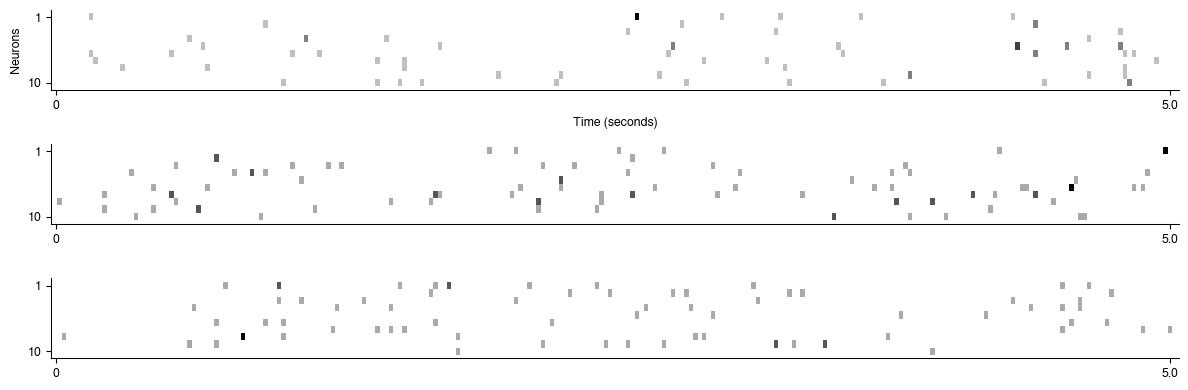
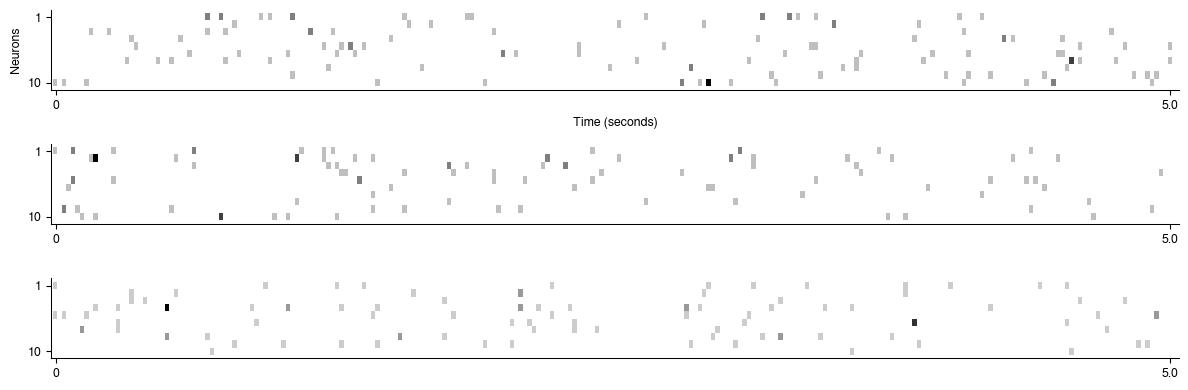
update examples

diff --git a/generate.py b/generate.py
@@ -154,6 +154,8 @@ def test_generate(
     if args.unconditional:
         n_neurons = args.n_neurons
         sample = np.zeros((n_neurons, 1), dtype=np.uint8)
+        indices_to_set = np.random.choice(n_neurons, int(n_neurons * 0.1), replace=False)
+        sample[indices_to_set] = 1
     else:
         ds = load_dataset(ds_name, split=ds_split)
         logger.info(f"Dataset loaded (size: {len(ds)})")
@@ -265,7 +267,7 @@ if __name__ == "__main__":
     parser.add_argument("--ctx_t", type=int, default=1, help="Duration of prompt context (time bins)")
     # unconditional
     parser.add_argument("--unconditional", action="store_true", default=False, help="If set, samples will be generated unconditionally (default: conditional generation).")
-    parser.add_argument("--n_neurons", type=int, default=10, help="Number of neurons. Used only when --unconditional is set.")
+    parser.add_argument("--n_neurons", type=int, default=100, help="Number of neurons. Used only when --unconditional is set.")
     # common
     parser.add_argument("--gen_t", type=int, default=29, help="Duration of generated sample (time bins)")
     

diff --git a/README.md b/README.md
@@ -72,7 +72,7 @@ You can use the [`generate.py`](generate.py) script to generate conditional or u
 
 ![](assets/samples_100.jpeg)
 
-In these examples, we prompt the model with a single column of zero spikes at `t=0`, the model then generates the neural activity in the remaining time steps. The upper figure shows three examples with 10 neurons and the bottom figures shows three examples with 100 neurons. Samples are generated by the `rodent-8B-131k` model. Note that the model frequently generates spatiotemporal clusters of neural activity (*i.e.* bins are more likely to be active when their spatiotemporal neighbors are active).
+In these examples, we activate a random subset of the neurons with a single spike at `t=0` (*prompt*), the model then generates the neural activity in the remaining time steps. The upper figure shows three examples with 10 neurons and the bottom figures shows three examples with 100 neurons. Samples are generated by the `rodent-8B-131k` model. Note that the model frequently generates spatiotemporal clusters of neural activity (*i.e.* bins are more likely to be active when their spatiotemporal neighbors are active).
 
 ### Checkpoint conversions
 
